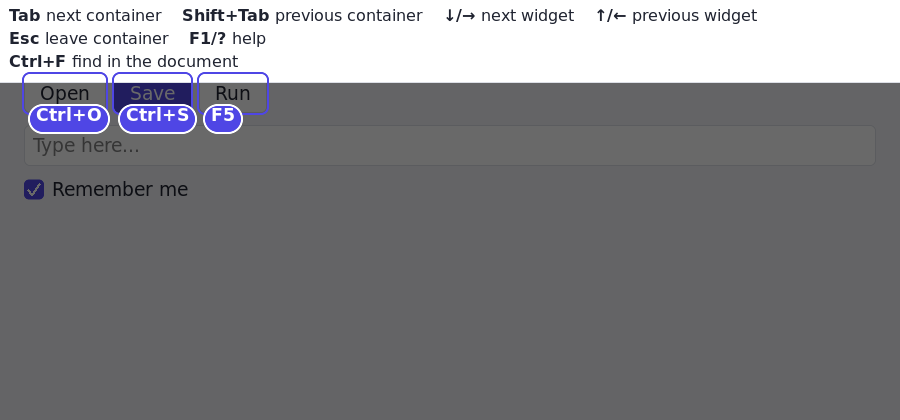
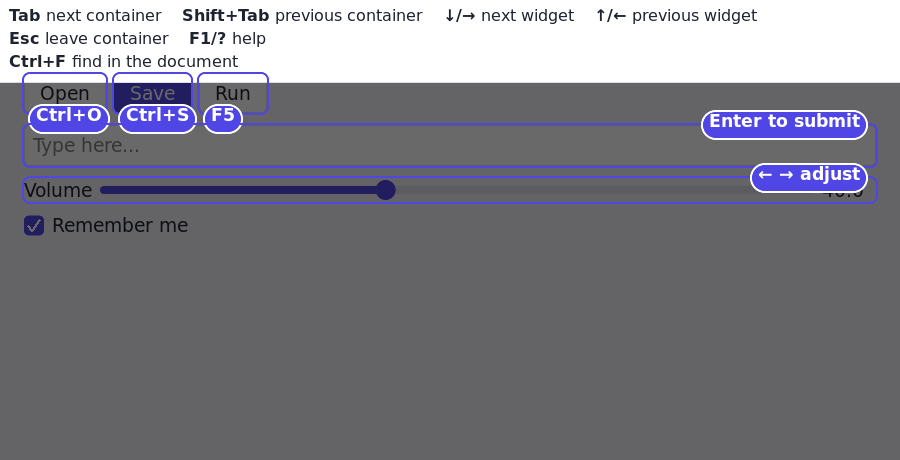
Hints on any widget; app-level shortcuts
.hint(text) puts any note beside a widget in the help overlay (the overlay
collects every widget with a hint, takes its place and its text); a widget with
a .shortcut and no hint shows its chord. app.bindShortcut(keys, text, action)
binds a key to the app itself, with no widget behind it, and lists it on the
overlay's second row. A widget's shortcut wins over an app shortcut on the same
chord; typing-style chords leave a focused text field alone. Wide widgets get
their badge on the top-right edge so it does not land on the next row.

Claude-Session: https://claude.ai/code/session_01U5K3KGqjsGPeaG3vg6QURw

Changed region(s): [[0.0, 0.0, 1.0, 0.5262], [0.4978, 0.0, 0.84, 0.0619]]

diff --git a/docs/preferences.md b/docs/preferences.md
@@ -84,13 +84,17 @@ prefs.reduceMotion              # read-only: honour it in anything custom you an
 prefs.colorScheme               # offer a light and a dark theme; start on the one asked for
 ```
 
-Give a widget a shortcut with `.shortcut(...)` -- it really activates the
-widget, and the help overlay shows it beside it. Shortcuts with no widget go in
-`app.addHelp("Ctrl+F", "Find")`:
+Say what a key does in the GUI itself, three ways:
 
 ```nim
-Button(text = "Save").shortcut("Ctrl+S")
+Button(text = "Save").shortcut("Ctrl+S")      # a real key for this widget; its chord is the hint
+Slider(...).hint("← → adjust")                # any note, shown beside the widget (binds nothing)
+app.bindShortcut("Ctrl+F", "find", openFind)  # a key for the whole app; listed under the top line
 ```
+
+The help overlay gathers every widget that has a hint, takes where it is on
+screen and what it says, and draws a badge there. `app.addHelp(keys, text)` lists
+a note that has no widget and no action.
 
 Do not rebind navigation keys or override scroll and double-click speed: that
 is the user's call, and being able to count on it is the point. Add your own

diff --git a/TODO.md b/TODO.md
@@ -380,8 +380,9 @@ set by the *user* in their preferences file (docs/preferences.md), not by apps.
   following of OS changes: not planned; theme switches stay snappy.
 - [x] Keyboard help overlay: F1 or ? (rebindable) shades the window, the user's
   navigation keys along the top, a badge beside every widget with a
-  `.shortcut("Ctrl+S")` (which really activates it); `app.addHelp` for
-  shortcuts with no widget; a ? typed into a field is left alone.
+  `.hint("...")` or `.shortcut("Ctrl+S")` (which really activates it);
+  `app.bindShortcut` for app-level keys with no widget; `app.addHelp` for
+  plain notes; a ? typed into a field is left alone.
 - [x] Focus rings while navigating by keyboard: firm round the focused widget,
   softer round its container; gone when the mouse takes over.
 - [ ] Windows/macOS config path check in CI.
